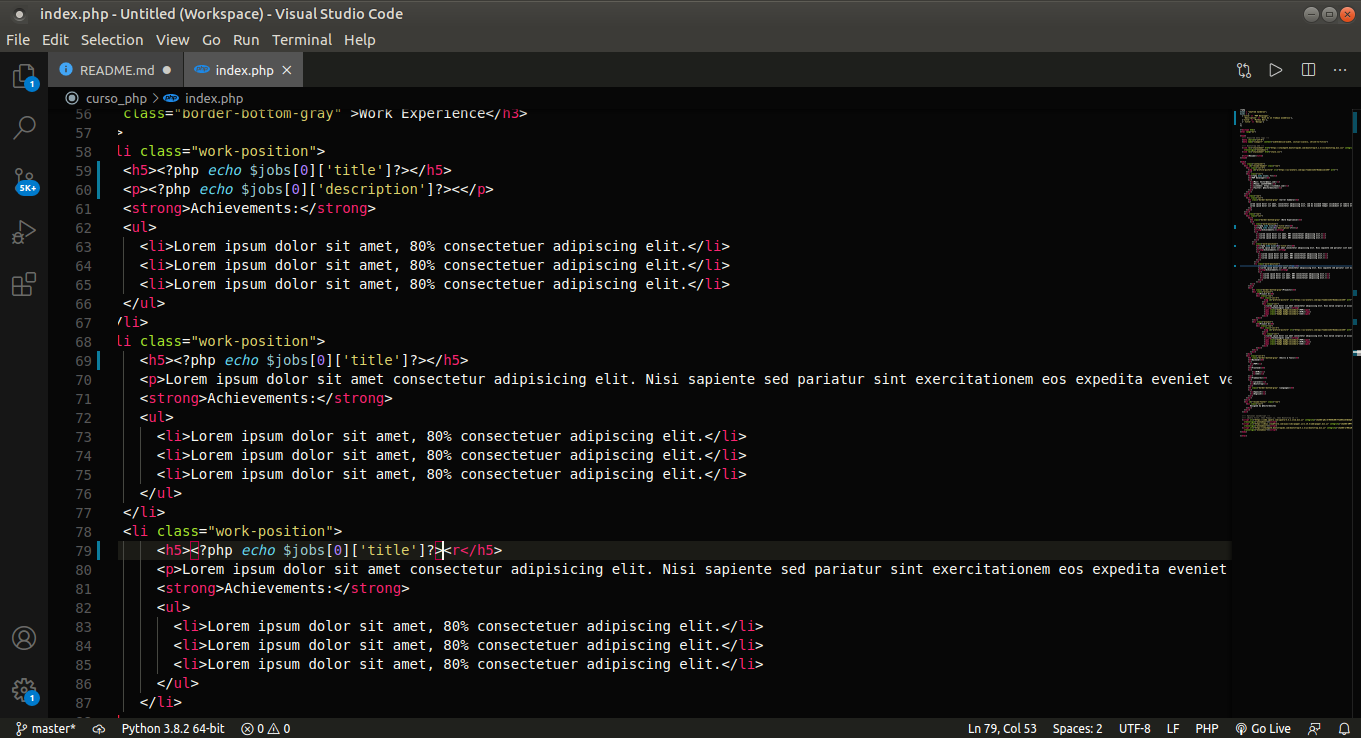
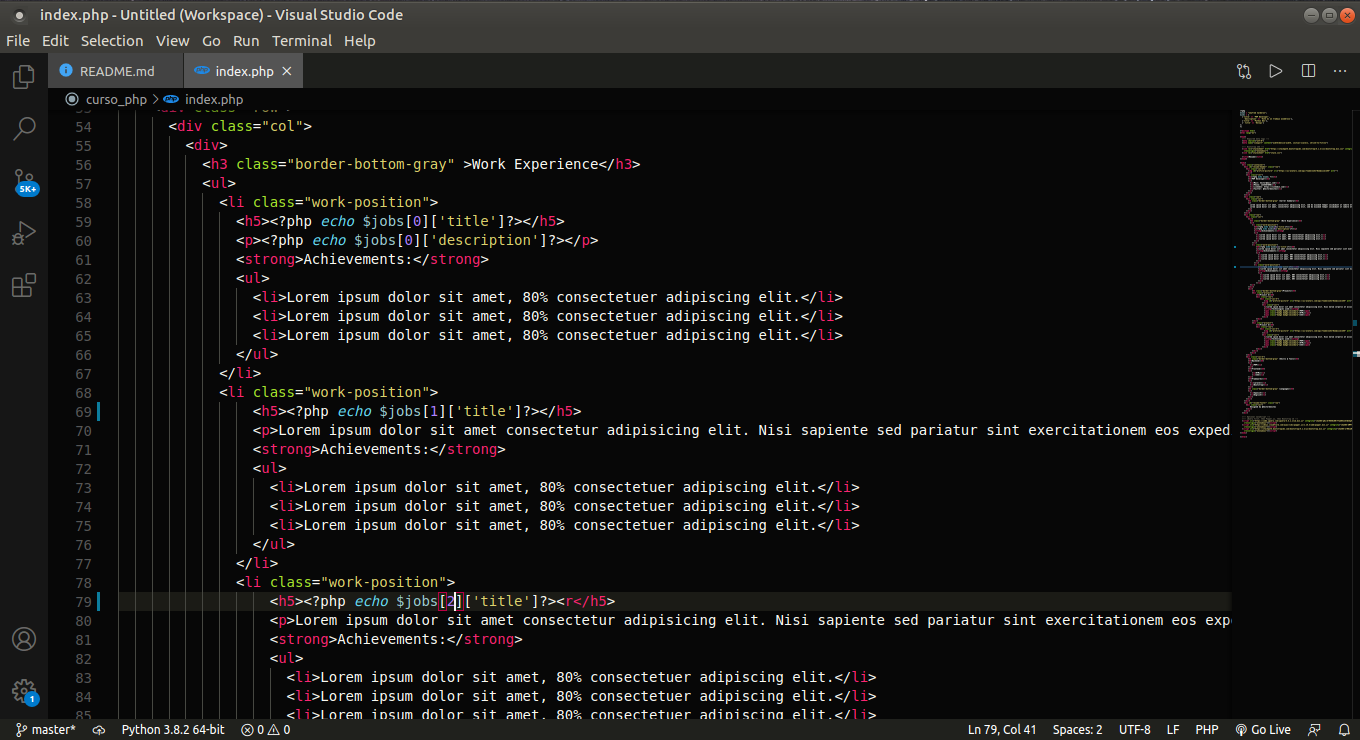
Actualizando Clase No. 8 del curso de php

diff --git a/index.php b/index.php
@@ -4,7 +4,7 @@ $jobs = [
   ['title' => 'PHP Developer',
     'description' => 'Este es un trabajo asombroso'],
   ['title' => 'Python Dev'],
-  [' title' => 'Devops']
+  ['title' => 'Devops']
 ];
 ?>
 
@@ -66,7 +66,7 @@ $jobs = [
               </ul>
             </li>
             <li class="work-position">
-                <h5><?php echo $jobs[0]['title']?></h5>
+                <h5><?php echo $jobs[1]['title']?></h5>
                 <p>Lorem ipsum dolor sit amet consectetur adipisicing elit. Nisi sapiente sed pariatur sint exercitationem eos expedita eveniet veniam ullam, quia neque facilis dicta voluptatibus. Eveniet doloremque ipsum itaque obcaecati nihil.</p>
                 <strong>Achievements:</strong>
                 <ul>
@@ -76,7 +76,7 @@ $jobs = [
                 </ul>
               </li>
               <li class="work-position">
-                  <h5><?php echo $jobs[0]['title']?><r</h5>
+                  <h5><?php echo $jobs[2]['title']?><r</h5>
                   <p>Lorem ipsum dolor sit amet consectetur adipisicing elit. Nisi sapiente sed pariatur sint exercitationem eos expedita eveniet veniam ullam, quia neque facilis dicta voluptatibus. Eveniet doloremque ipsum itaque obcaecati nihil.</p>
                   <strong>Achievements:</strong>
                   <ul>

diff --git a/README.md b/README.md
@@ -483,7 +483,7 @@ $jobs = [
   ['title' => 'PHP Developer',
     'description' => 'Este es un trabajo asombroso'],
   ['title' => 'Python Dev'],
-  [' title' => 'Devops']
+  ['title' => 'Devops']
 ];
 ?>
 ```
@@ -496,3 +496,8 @@ y nuevamente se reemplazan en la parte de **Work position** por
 ```
 
 ![assets/16.png](assets/16.png)
+
+al recargar el navegador estos valores deben aparecer actualizados
+
+![assets/17.png](assets/17.png)
+
